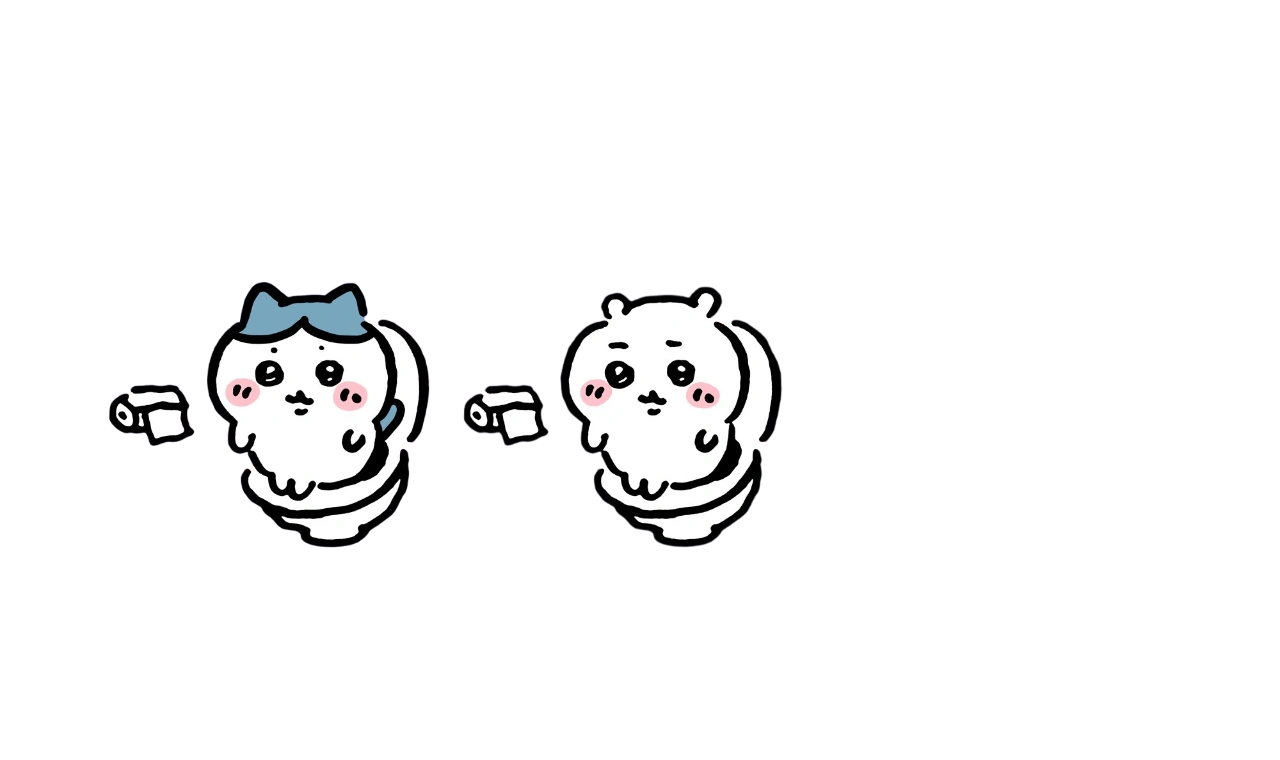
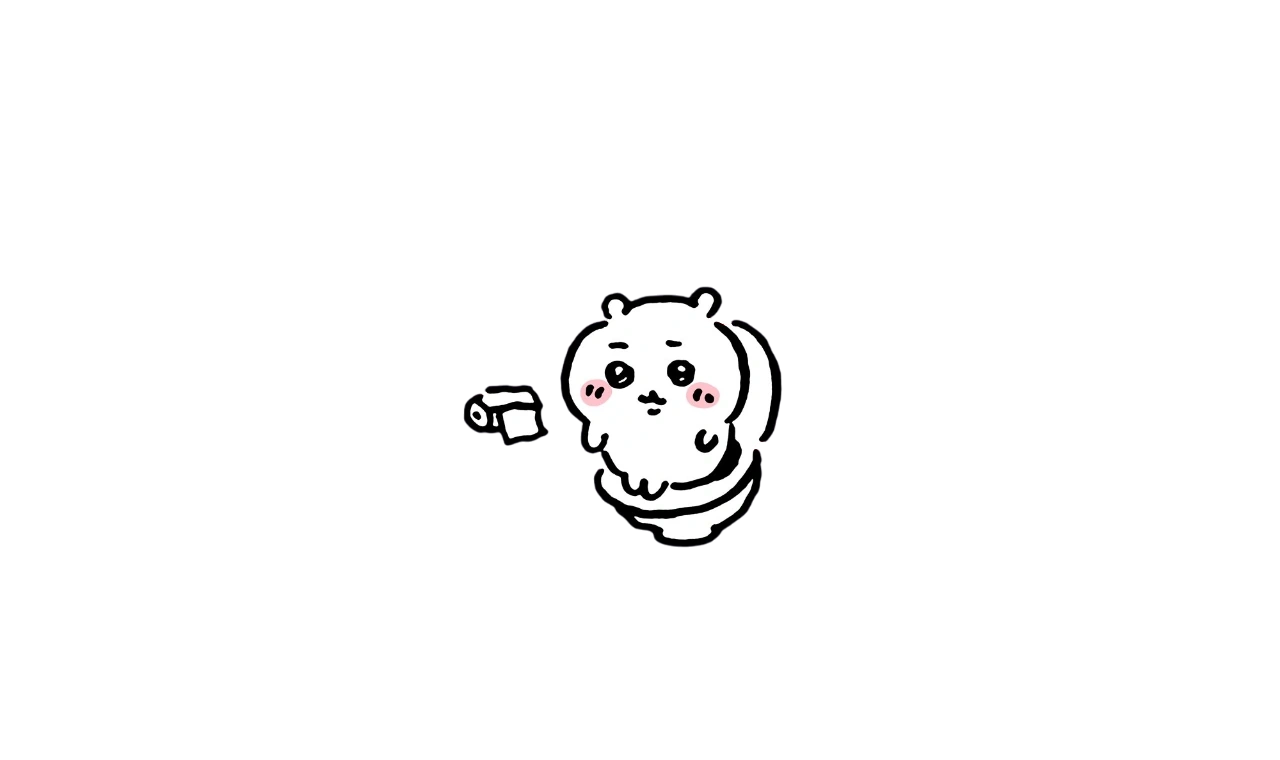
✨ feat: ページ遷移ローディングを追加
- 画像の加工(アニメーション用に一人ずつにする)
- ローディングオーバーレイ用に各要素のz-indexを調整
- ローディングメッセージは非表示にできるようにする(ページ読み込み中メッセージは冗長なので出したくない)

Changed region(s): [[0.0625, 0.3632, 0.3438, 0.7263]]

diff --git a/apps/frontend/src/components/LoadingScreen.tsx b/apps/frontend/src/components/LoadingScreen.tsx
@@ -1,4 +1,4 @@
-import { motion } from 'motion/react';
+import { AnimatePresence, motion } from 'motion/react';
 import NextImage from 'next/image';
 import { useEffect, useState } from 'react';
 import React from 'react';
@@ -13,7 +13,7 @@ type LoadingScreenProps = {
   message?: string;
 };
 
-export default function LoadingScreen({ message = '読込中' }: LoadingScreenProps) {
+export default function LoadingScreen({ message }: LoadingScreenProps) {
   const images = [
     '',
     '/images/user-registration-loading/user-registration-loading_1.webp',
@@ -22,6 +22,7 @@ export default function LoadingScreen({ message = '読込中' }: LoadingScreenPr
   ];
 
   const [currentImageIndex, setCurrentImageIndex] = useState(0);
+  const [visibleImages, setVisibleImages] = useState<number[]>([]);
 
   useEffect(() => {
     const timer = setInterval(() => {
@@ -32,10 +33,29 @@ export default function LoadingScreen({ message = '読込中' }: LoadingScreenPr
     // eslint-disable-next-line react-hooks/exhaustive-deps
   }, []);
 
+  // 現在の画像インデックスが変わったら、表示する画像の配列を更新
+  useEffect(() => {
+    if (currentImageIndex === 0) {
+      // 最初のブランクフレームの場合は配列をクリア
+      setVisibleImages([]);
+      return;
+    }
+
+    // 新しい画像を追加（最大3枚まで表示）
+    setVisibleImages((prev) => {
+      const newImages = [...prev, currentImageIndex];
+      // 3枚以上なら古い画像を削除
+      if (newImages.length > 3) {
+        return newImages.slice(1);
+      }
+      return newImages;
+    });
+  }, [currentImageIndex]);
+
   return (
     <Flex direction="column" justify="center" align="center" minH="80vh">
       <VStack maxW="600px" textAlign="center">
-        <Text color="blackPrimary" fontSize={['2xl', '3xl']} fontWeight="bold">
+        <Text color="blackSwitch" fontSize={['2xl', '3xl']} fontWeight="bold">
           {message}
         </Text>
 
@@ -69,23 +89,50 @@ export default function LoadingScreen({ message = '読込中' }: LoadingScreenPr
               ))}
             </Flex>
 
-            {/* イラストのローディングアニメーション */}
-            <Box h="210px">
-              {images[currentImageIndex]
-                ? (
-                  <NextImage
-                    src={images[currentImageIndex]}
-                    width={1000}
-                    height={0}
-                    style={{
-                      width: '350px',
-                      height: 'auto',
+            {/* イラストのローディングアニメーション - 重ねて表示 */}
+            <Box h="210px" position="relative" w="350px">
+              <AnimatePresence>
+                {/* 表示中の画像を重ねて表示（後ろから順に） */}
+                {visibleImages.map((imgIndex, i) => (
+                  <motion.div
+                    key={imgIndex}
+                    initial={{ opacity: 0, scale: 0.8 }}
+                    animate={{
+                      opacity: 1,
+                      scale: 1,
+                      zIndex: visibleImages.length - i, // 後から追加された画像ほど手前に表示
                     }}
-                    alt="loading"
-                    priority
-                  />
-                )
-                : null}
+                    exit={{ opacity: 0, scale: 0.8 }}
+                    transition={{
+                      duration: 0.4,
+                      ease: 'easeOut',
+                    }}
+                    style={{
+                      position: 'absolute',
+                      left: 0,
+                      right: 0,
+                      display: 'flex',
+                      justifyContent: 'center',
+                    }}
+                  >
+                    {images[imgIndex]
+                      ? (
+                        <NextImage
+                          src={images[imgIndex]}
+                          width={1000}
+                          height={0}
+                          style={{
+                            width: '350px',
+                            height: 'auto',
+                          }}
+                          alt="loading"
+                          priority
+                        />
+                      )
+                      : null}
+                  </motion.div>
+                ))}
+              </AnimatePresence>
             </Box>
           </Flex>
         </Box>

diff --git a/apps/frontend/src/components/Layout/Layout.tsx b/apps/frontend/src/components/Layout/Layout.tsx
@@ -5,6 +5,7 @@ import React, { ReactNode, RefObject, useEffect } from 'react';
 import { Center } from '@repo/ui/chakra-ui';
 import { type NavigationItem, Layout as UiLayout } from '@repo/ui/components';
 
+import LoadingScreen from '@/components/LoadingScreen';
 import { MenuDrawer } from '@/components/Menu/MenuDrawer';
 import { usePagination } from '@/components/Pagination/hooks/usePagination';
 import { Pagination } from '@/components/Pagination/Pagination';
@@ -12,6 +13,7 @@ import { DeviceTypeInitializer } from '@/providers/DeviceTypeInitializer';
 import { useDeviceTypeStore } from '@/stores/deviceTypeStore';
 import { NavigationStore, useNavigationStore } from '@/stores/navigationStore';
 
+import { usePageLoading } from './hooks/usePageLoading';
 import { usePageTransition } from './hooks/usePageTransition';
 
 const navigationItems: NavigationItem[] = [
@@ -160,6 +162,8 @@ export default function Layout({
     }
   }
 
+  const { showPageLoading } = usePageLoading();
+
   return (
     <DeviceTypeInitializer>
       <UiLayout
@@ -174,6 +178,32 @@ export default function Layout({
         onNavigationClick={handleNavigationClick}
         onNavigationBack={onNavigationBack}
       >
+        {/* ローディングオーバーレイ */}
+        <AnimatePresence>
+          {showPageLoading && (
+            <motion.div
+              initial={{ opacity: 0 }}
+              animate={{ opacity: 1 }}
+              exit={{ opacity: 0 }}
+              transition={{ duration: 0.2 }}
+              style={{
+                position: 'fixed',
+                top: 0,
+                left: 0,
+                right: 0,
+                bottom: 0,
+                backgroundColor: 'rgba(0, 0, 0, 0.7)',
+                zIndex: 1200,
+                display: 'flex',
+                justifyContent: 'center',
+                alignItems: 'center',
+              }}
+            >
+              <LoadingScreen />
+            </motion.div>
+          )}
+        </AnimatePresence>
+
         <AnimatePresence mode="wait" custom={transitionProps.custom}>
           <motion.div key={router.asPath} {...transitionProps}>
             {/* ページネーション */}

diff --git a/apps/frontend/src/components/Menu/MenuDrawer.tsx b/apps/frontend/src/components/Menu/MenuDrawer.tsx
@@ -42,6 +42,8 @@ export function MenuDrawer() {
   const favsNavStoreReset = useNavigationStore('favs', (state) => state.reset);
 
   function handleGotoFavs() {
+    setShowMenu(false);
+
     // お気に入り一覧から戻るためのパスをストアに保存
     store.setPrePagePath(router.asPath);
     // お気に入り一覧のスクロール位置をリセット
@@ -61,10 +63,14 @@ export function MenuDrawer() {
 
   // リロードボタンの処理
   function handleReload() {
+    setShowMenu(false);
+
     window.location.reload();
   }
 
   async function handleLogout() {
+    setShowMenu(false);
+
     try {
       // Supabaseでログアウト処理
       const { error } = await supabase.auth.signOut();
@@ -126,6 +132,7 @@ export function MenuDrawer() {
                     icon={colorMode === 'light' ? <MdOutlineAccountCircle /> : <MdAccountCircle />}
                     label="アカウント設定"
                     to="/account-settings"
+                    onClick={() => setShowMenu(false)}
                   />
 
                   <MenuButton icon={<IoReload />} label="ページリロード" onClick={handleReload} />
@@ -136,7 +143,8 @@ export function MenuDrawer() {
                 <MenuButton
                   icon={colorMode === 'light' ? <MdInfoOutline /> : <MdInfo />}
                   label="このアプリについて"
-                  onClick={() => router.push('/about')}
+                  to="/about"
+                  onClick={() => setShowMenu(false)}
                 />
 
                 {!isPWA && (
@@ -144,6 +152,7 @@ export function MenuDrawer() {
                     icon={colorMode === 'light' ? <MdOutlineInstallMobile /> : <MdInstallMobile />}
                     label="インストールガイド"
                     to="/pwa-install-guide"
+                    onClick={() => setShowMenu(false)}
                   />
                 )}
 

diff --git a/apps/frontend/src/components/Layout/hooks/usePageLoading.ts b/apps/frontend/src/components/Layout/hooks/usePageLoading.ts
@@ -1,0 +1,51 @@
+import { useRouter } from 'next/router';
+import { useEffect, useState } from 'react';
+
+/** ローディング使用のためのカスタムフック */
+export const usePageLoading = () => {
+  const router = useRouter();
+
+  const [loading, setLoading] = useState(false);
+
+  // ページ遷移時のローディング状態を管理
+  useEffect(() => {
+    // ページ遷移開始時
+    const handleStart = () => {
+      setLoading(true);
+    };
+
+    // ページ遷移完了時
+    const handleComplete = () => {
+      setLoading(false);
+    };
+
+    router.events.on('routeChangeStart', handleStart);
+    router.events.on('routeChangeComplete', handleComplete);
+    router.events.on('routeChangeError', handleComplete);
+
+    return () => {
+      router.events.off('routeChangeStart', handleStart);
+      router.events.off('routeChangeComplete', handleComplete);
+      router.events.off('routeChangeError', handleComplete);
+    };
+  }, [router]);
+
+  const [showPageLoading, setShowPageLoading] = useState(false);
+
+  // ちらつき防止のため、少し遅延させてからローディングを表示
+  useEffect(() => {
+    let timer: NodeJS.Timeout;
+    if (loading) {
+      timer = setTimeout(() => setShowPageLoading(true), 500);
+    }
+    else {
+      setShowPageLoading(false);
+    }
+
+    return () => clearTimeout(timer);
+  }, [loading]);
+
+  return {
+    showPageLoading,
+  };
+};

diff --git a/packages/ui/src/components/Layout/Footer.tsx b/packages/ui/src/components/Layout/Footer.tsx
@@ -62,7 +62,7 @@ export default function Footer({ navigationItems, onNavigationClick, color, isPW
       right="0"
       // iPhoneのホームバー対応
       paddingBottom="env(safe-area-inset-bottom)"
-      zIndex="sticky"
+      zIndex={1300}
     >
       <Flex justify="space-around" height="100%">
         {navigationItems.map((item, index) => {
@@ -86,9 +86,7 @@ export default function Footer({ navigationItems, onNavigationClick, color, isPW
                 bottom={isItemActive ? '25px' : '20px'}
                 transition="all 0.2s cubic-bezier(0.4, 0, 0.2, 1)"
                 transform={isItemActive ? 'scale(1.1)' : 'scale(1)'}
-                style={{
-                  willChange: 'transform',
-                }}
+                willChange="transform"
               >
                 <NextImage
                   src={isItemActive ? item.activeIcon : item.inactiveIcon}

diff --git a/apps/frontend/src/features/Favs/Favs.tsx b/apps/frontend/src/features/Favs/Favs.tsx
@@ -53,7 +53,7 @@ export default function Favs({ currentPage, perPage }: FavsProps) {
       onNavigationBack={handleBack}
     >
       {isFavLoading
-        ? <LoadingScreen />
+        ? <LoadingScreen message="お気に入りを取得しています" />
         : total === 0
           ? <MessageWithImage title="お気に入りがないよ！" messages="漫画詳細から追加してみよう" imageSrc="/images/no-favs.webp" />
           : (

diff --git a/packages/ui/src/components/Layout/Layout.tsx b/packages/ui/src/components/Layout/Layout.tsx
@@ -109,7 +109,7 @@ export const Layout: React.FC<LayoutProps> = ({
       </Box>
 
       {/* 最上部にスクロールボタン */}
-      <Box position="fixed" bottom="85px" right="20px" zIndex={9999}>
+      <Box position="fixed" bottom="85px" right="20px" zIndex={1000}>
         <motion.div
           initial={{ opacity: 0 }}
           animate={{

diff --git a/packages/ui/src/components/Layout/Header.tsx b/packages/ui/src/components/Layout/Header.tsx
@@ -43,7 +43,7 @@ const Header: React.FC<HeaderProps> = ({ title, actionButton, canBack, color, on
       top="0"
       left="0"
       right="0"
-      zIndex="sticky"
+      zIndex={1300} // メニュードロワー(1400)より上にする
     >
       {/* メインヘッダー部分 */}
       <Box h="40px" position="relative">

diff --git a/apps/frontend/src/features/LoginWithOAuth/LoginWithOAuth.tsx b/apps/frontend/src/features/LoginWithOAuth/LoginWithOAuth.tsx
@@ -99,7 +99,7 @@ export default function LoginWithOAuth() {
                 </motion.div>
               ) : (
                 // 登録中表示
-                <LoadingScreen />
+                <LoadingScreen message="登録を確認しています" />
               )}
             </Center>
           </Layout>
